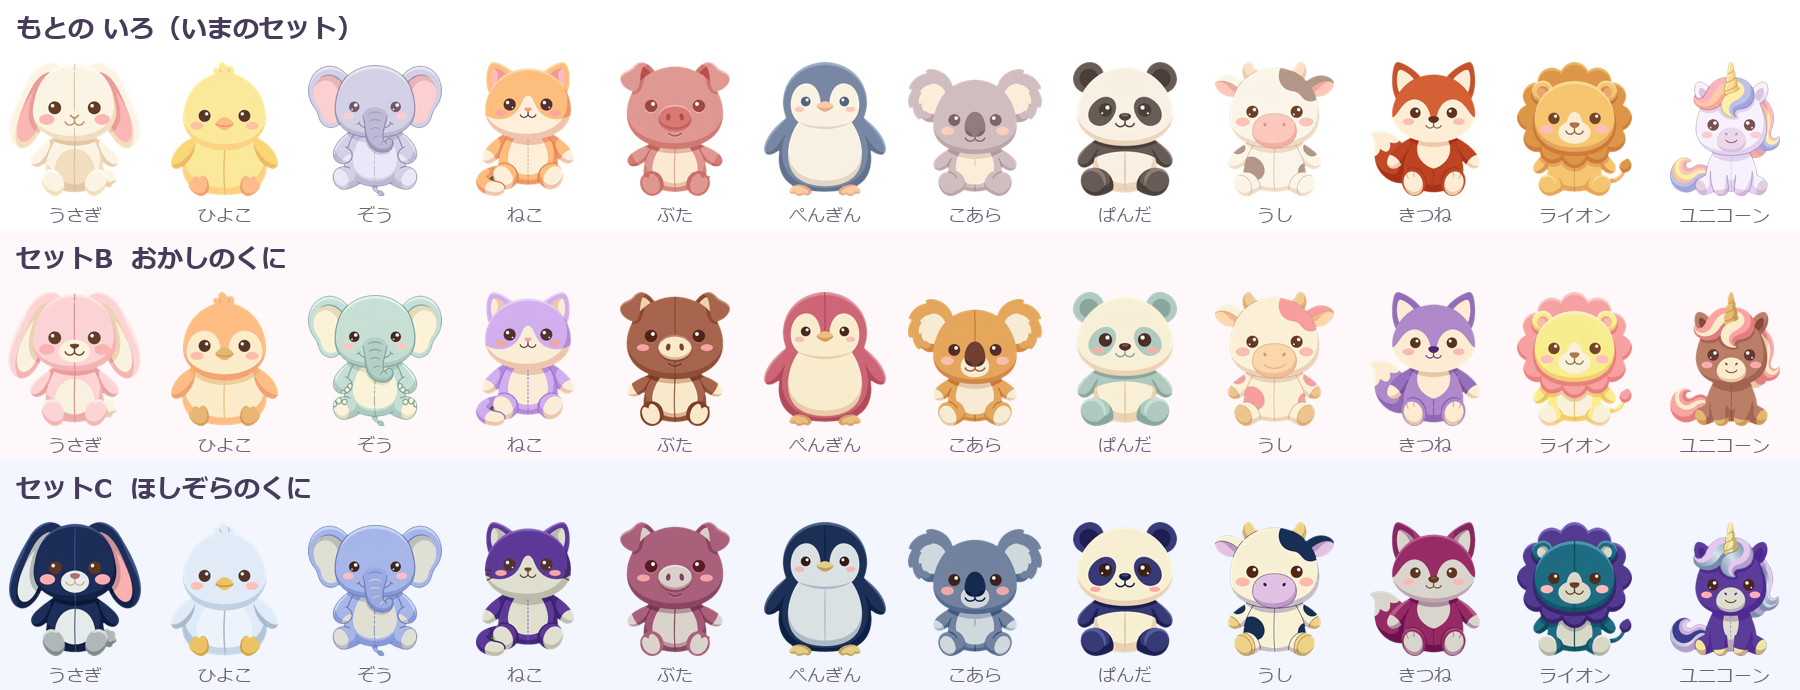
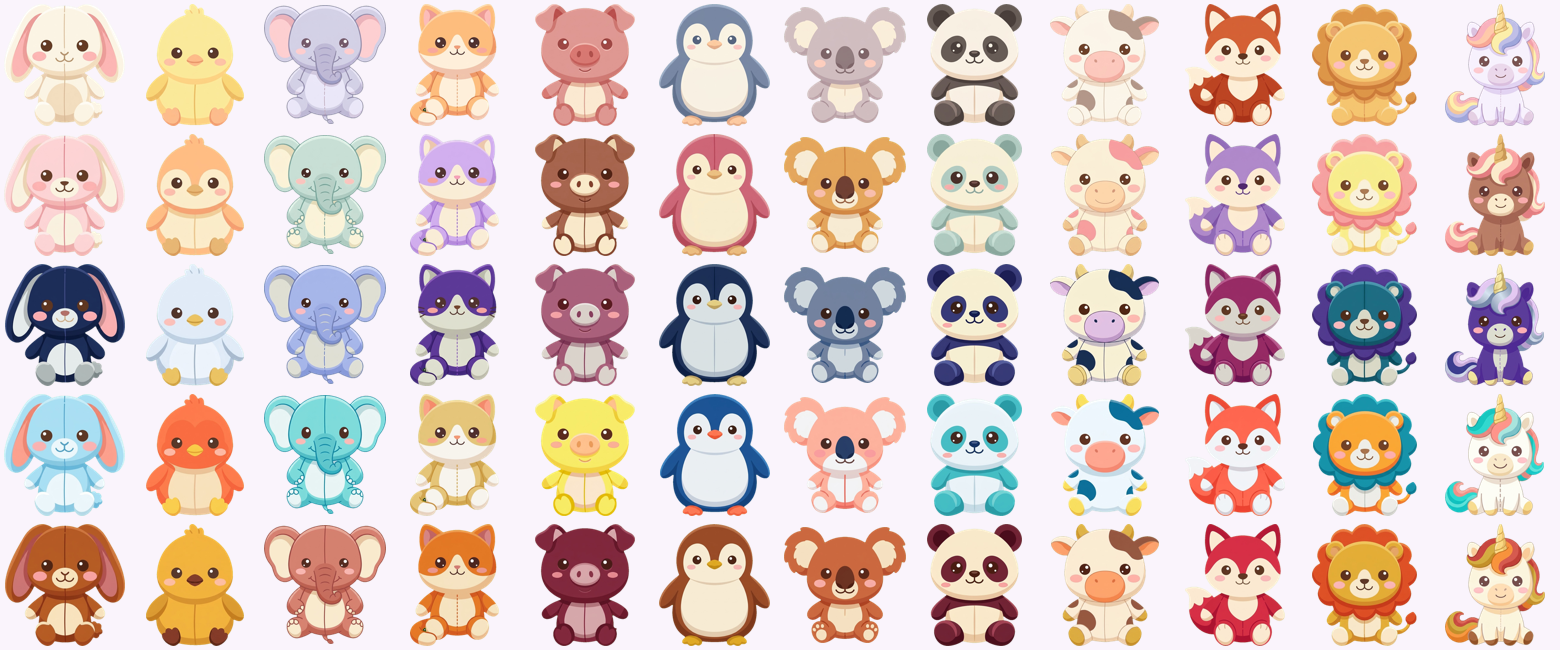
ぬいぐるみを 2セット ついか（セットD・E、あわせて 60しゅるい）
セットD「うみの くに」  夏の うみ・すなはま（そらいろ・アクア・コーラル・レモン）
  セットE「あきの もり」  もみじ・くり（もみじあか・かぼちゃ・マスタード・くりいろ）

・おなじ 12しゅるいの どうぶつで いろだけ ちがう。もとの がぞうを
  Gemini に わたして ぬりかえた ので、かたち・めの かきかたは そろう
・セットC を そろえると D、D を そろえると E が でてくる
・60しゅるい そろえたら「クレーンゲーム マスター」
・みどりは はいけい（みどり）と まざる ので つかって いない

ブラウザで C→D→E→ぜんぶ そろった まで ためした。

diff --git a/index.html b/index.html
@@ -2480,7 +2480,9 @@ var PLUSH_BASE = [
 var PLUSH_SETS = [
   { pre:'',   name:'どうぶつの くに',   nick:'' },
   { pre:'B_', name:'おかしの くに',     nick:'おかしの ' },
-  { pre:'C_', name:'ほしぞらの くに',   nick:'ほしぞらの ' }
+  { pre:'C_', name:'ほしぞらの くに',   nick:'ほしぞらの ' },
+  { pre:'D_', name:'うみの くに',       nick:'うみの ' },
+  { pre:'E_', name:'あきの もり',       nick:'あきの ' }
 ];
 var PLUSH_PER_SET = PLUSH_BASE.length;
 
